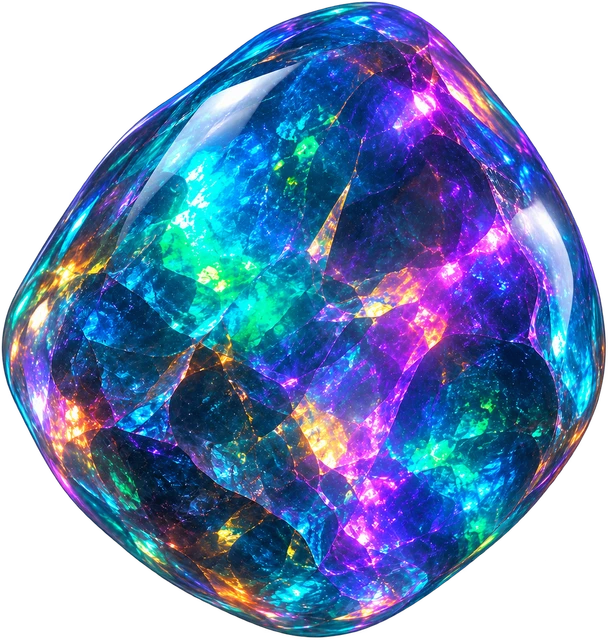
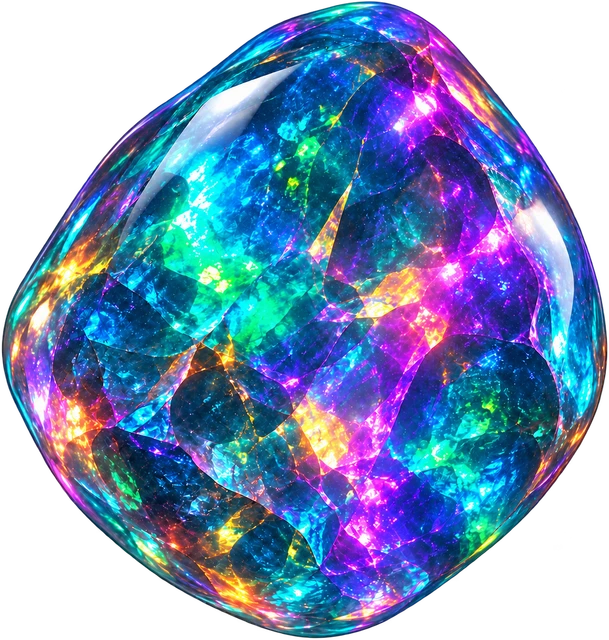
fix(opal): pedra volta a flutuar no dashboard (AnimatePresence congelava)
Causa raiz, confirmada por medicao do transform no DOM: o AppShell
envolve as paginas num <AnimatePresence mode="wait" initial={false}>
pra fazer a transicao entre rotas. Todo `motion` descendente herda esse
contexto de presenca e, com initial={false}, o Framer trata a subarvore
como "ja estava aqui" e pula a animacao de entrada dos filhos. Como o
flutuar da pedra dispara na montagem, ele nunca arrancava: o wrapper
ficava travado em y=0 pra sempre.

Isolei com quatro casos lado a lado, medindo o deslocamento real:
  sem wrapper .................. 23.9px
  so motion.main ............... 23.9px
  AnimatePresence + motion.main .. 0px
  AnimatePresence + main comum ... 0px
Ou seja, o AnimatePresence sozinho e o que congela, nao o motion.main.

Fix: zerar o PresenceContext em volta do OpalCrystal, o que devolve a ele
o comportamento de quem esta fora do AnimatePresence, sem mexer na
transicao de rota do app. Depois do fix os quatro casos medem 23.9px.

Nao era prefers-reduced-motion (testei com a media emulada: animava nos
dois estados, antes e depois) nem cache/service worker.

Troca tambem a public/opal/stage-3.webp pela nova pedra.

diff --git a/src/components/OpalCrystal.tsx b/src/components/OpalCrystal.tsx
@@ -1,6 +1,6 @@
 "use client"
 
-import { motion } from "framer-motion"
+import { motion, PresenceContext } from "framer-motion"
 import { useEffect, useId, useMemo, useRef, useSyncExternalStore } from "react"
 
 /**
@@ -261,7 +261,18 @@ export function OpalCrystal({
     [],
   )
 
-  return (
+  // Por que o PresenceContext.Provider value={null} lá embaixo, em volta de
+  // tudo: o AppShell envolve as páginas num <AnimatePresence mode="wait"
+  // initial={false}> (a transição entre rotas). Todo `motion` descendente
+  // herda esse contexto de presença, e com `initial={false}` o Framer marca
+  // a subárvore como "já estava aqui" e PULA a animação de entrada dos
+  // filhos. A animação de flutuar dispara na montagem, então ela nunca
+  // chegava a arrancar: a pedra ficava parada em y=0 pra sempre, no
+  // dashboard (dentro do AppShell) mas não numa página solta.
+  //
+  // Zerar o contexto aqui devolve o componente ao comportamento de quem
+  // está fora do AnimatePresence, sem tirar a transição de rota do app.
+  const conteudo = (
     <motion.div
       ref={hostRef}
       animate={wrapperAnim}
@@ -440,4 +451,6 @@ export function OpalCrystal({
       )}
     </motion.div>
   )
+
+  return <PresenceContext.Provider value={null}>{conteudo}</PresenceContext.Provider>
 }
